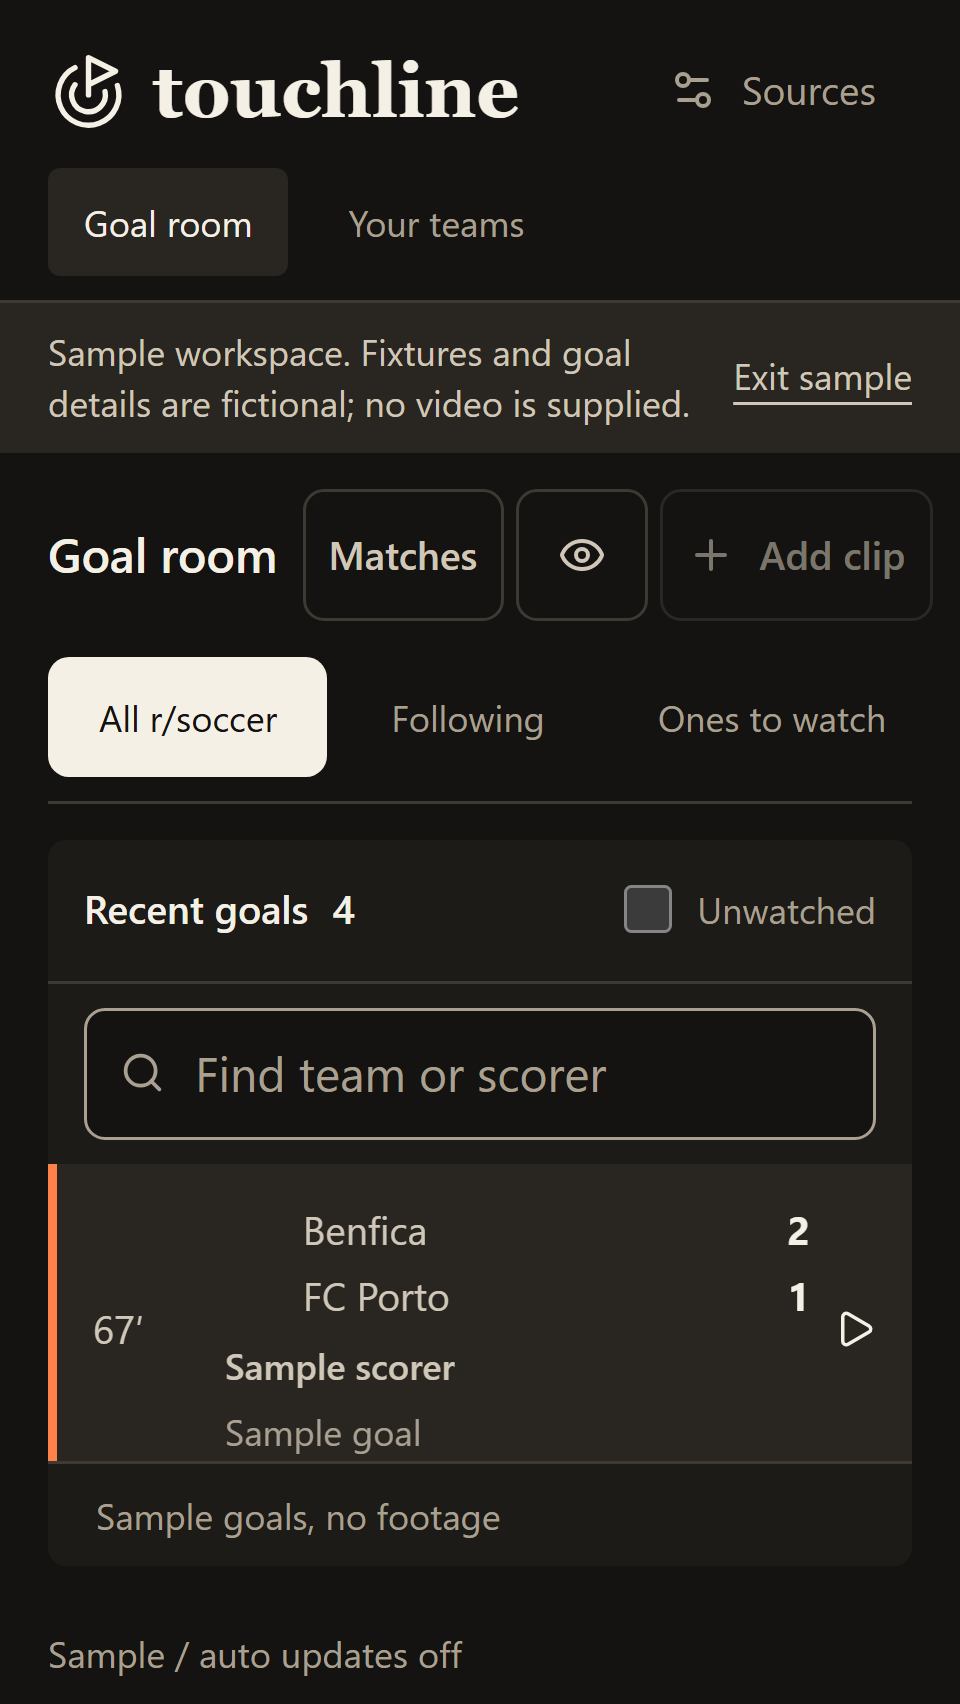
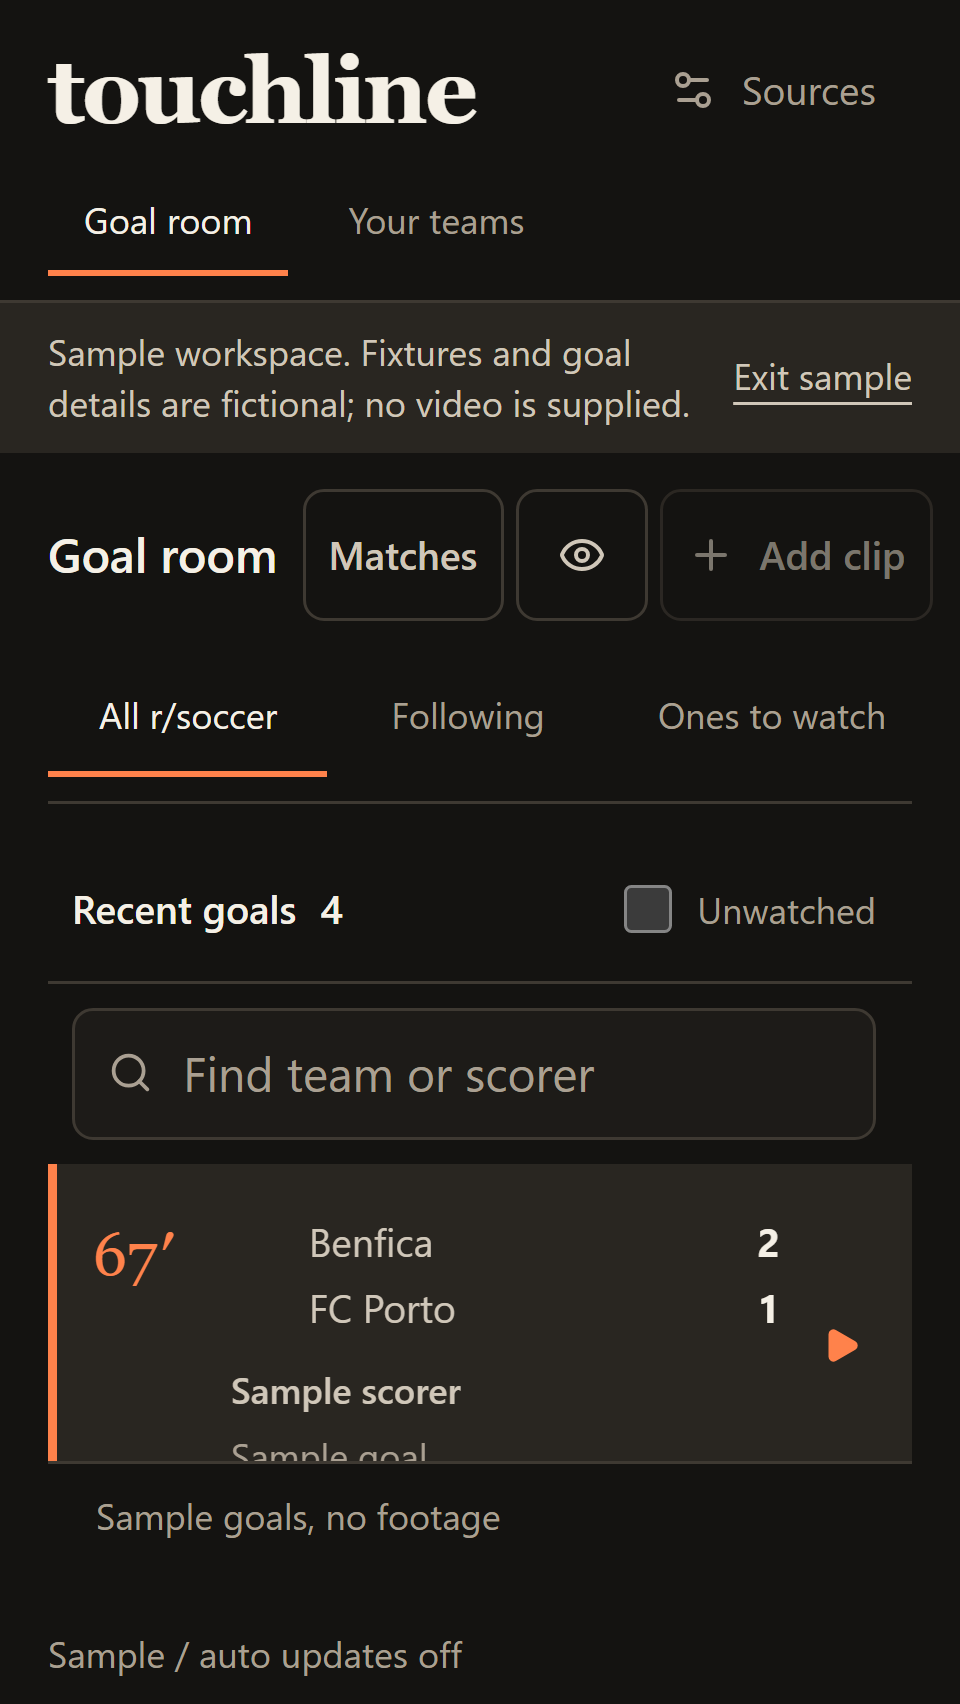
Refine Touchline score strip and football desk hierarchy

diff --git a/web/src/App.tsx b/web/src/App.tsx
@@ -1032,15 +1032,27 @@ export default function App() {
                                           hour: "2-digit",
                                           minute: "2-digit",
                                         }).format(new Date(goal.publishedAt))}
-                                    {prefs.watched.includes(goal.id)
-                                      ? " / Watched"
-                                      : ""}
+                                    {prefs.watched.includes(goal.id) && (
+                                      <span className="watched-note">
+                                        <Check size={12} aria-hidden="true" />
+                                        Watched
+                                      </span>
+                                    )}
                                     {goal.alternatives.length
                                       ? ` / ${goal.alternatives.length} alternate`
                                       : ""}
                                   </small>
                                 </span>
-                                <Play size={14} />
+                                <span className="queue-play" aria-hidden="true">
+                                  <Play
+                                    size={13}
+                                    fill={
+                                      selected?.id === goal.id
+                                        ? "currentColor"
+                                        : "none"
+                                    }
+                                  />
+                                </span>
                               </button>
                             ))
                           ) : (
@@ -1130,20 +1142,45 @@ export default function App() {
                         {selected ? (
                           <>
                             <div className="player-header">
-                              <span>
-                                <TeamCrest
-                                  team={data.teams.find(
-                                    (t) => t.id === selected.homeId,
+                              <span className="match-scoreboard">
+                                <span className="scoreboard-team home">
+                                  <TeamCrest
+                                    team={data.teams.find(
+                                      (t) => t.id === selected.homeId,
+                                    )}
+                                  />
+                                  <span title={name(selected.homeId)}>
+                                    {name(selected.homeId)}
+                                  </span>
+                                </span>
+                                <strong
+                                  className="scoreboard-result"
+                                  aria-label={
+                                    hideScore
+                                      ? "Score hidden"
+                                      : `Score at this goal: ${selected.homeScore} to ${selected.awayScore}`
+                                  }
+                                >
+                                  {hideScore ? (
+                                    <EyeOff size={18} />
+                                  ) : (
+                                    <>
+                                      {selected.homeScore}
+                                      <span>:</span>
+                                      {selected.awayScore}
+                                    </>
                                   )}
-                                />
-                                {name(selected.homeId)}{" "}
-                                <span className="muted">vs</span>{" "}
-                                {name(selected.awayId)}
-                                <TeamCrest
-                                  team={data.teams.find(
-                                    (t) => t.id === selected.awayId,
-                                  )}
-                                />
+                                </strong>
+                                <span className="scoreboard-team away">
+                                  <TeamCrest
+                                    team={data.teams.find(
+                                      (t) => t.id === selected.awayId,
+                                    )}
+                                  />
+                                  <span title={name(selected.awayId)}>
+                                    {name(selected.awayId)}
+                                  </span>
+                                </span>
                               </span>
                               <button
                                 type="button"
@@ -1276,7 +1313,7 @@ export default function App() {
                                     ? "Scores and scorers stay hidden until you reveal this goal."
                                     : selected.sample
                                       ? "Fictional goal metadata for the sample workspace."
-                                      : selected.title}
+                                      : `${selected.minute}′ / ${name(selected.homeId)} vs ${name(selected.awayId)}`}
                                 </p>
                                 {selected.watchReason && (
                                   <a
@@ -1293,10 +1330,17 @@ export default function App() {
                                     <ExternalLink size={12} />
                                   </a>
                                 )}
-                                {selected.author && (
-                                  <p>
-                                    Posted to r/soccer by u/{selected.author}
-                                  </p>
+                                {!hideScore && !selected.sample && (
+                                  <details className="post-details">
+                                    <summary>Original post</summary>
+                                    <p>{selected.title}</p>
+                                    {selected.author && (
+                                      <p>
+                                        Posted to r/soccer by u/
+                                        {selected.author}
+                                      </p>
+                                    )}
+                                  </details>
                                 )}
                               </div>
                               <div className="clip-actions">

diff --git a/web/src/style.css b/web/src/style.css
@@ -1930,3 +1930,189 @@ summary:focus-visible {
   bottom: 0;
   background: var(--color-paper);
 }
+
+/* A football desk: a quiet index, a score strip and an open viewing stage. */
+.topbar .brand {
+  font-size: 31px;
+  letter-spacing: -1px;
+}
+.topbar .brand > svg {
+  display: none;
+}
+.topbar nav button {
+  border-radius: 0;
+  border-bottom: 2px solid var(--color-clear);
+}
+.topbar nav button[aria-current="page"] {
+  background: var(--color-clear);
+  border-bottom-color: var(--color-accent);
+}
+.feed-tabs > button {
+  border-radius: 0;
+  border-bottom: 2px solid var(--color-clear);
+}
+.feed-tabs > button[aria-pressed="true"] {
+  color: var(--color-ink);
+  background: var(--color-clear);
+  border-bottom-color: var(--color-accent);
+}
+.goal-queue {
+  background: var(--color-paper);
+  border-radius: 0;
+  border-right: 1px solid var(--color-rule);
+}
+.goal-queue .section-bar {
+  padding-left: var(--space-xs);
+}
+.goal-search {
+  margin-left: var(--space-xs);
+}
+.goal-search input {
+  border-color: var(--color-rule);
+  background: var(--color-paper-2);
+}
+.goal-row {
+  padding-block: var(--space-md);
+}
+.goal-minute {
+  align-self: flex-start;
+  padding-top: var(--space-3xs);
+  font: 400 20px/1.2 var(--font-display);
+  width: 38px;
+}
+.goal-row.selected .goal-minute {
+  color: var(--color-accent);
+}
+.goal-row:not(.selected) .queue-play {
+  color: var(--color-muted);
+}
+.queue-play {
+  display: grid;
+  place-items: center;
+  width: 24px;
+  height: 24px;
+  color: var(--color-accent);
+  flex: none;
+}
+.goal-copy strong {
+  margin-top: var(--space-xs);
+}
+.goal-copy small {
+  column-gap: var(--space-xs);
+}
+.watched-note {
+  display: inline-flex;
+  align-items: center;
+  gap: var(--space-3xs);
+}
+.match-rail {
+  border-radius: 0;
+  background: var(--color-paper);
+  border-left: 1px solid var(--color-rule);
+}
+.match-rail .section-bar,
+.match-group-heading,
+.match-rail > .date-control {
+  background: var(--color-paper-2);
+  color: var(--color-ink);
+}
+.fixture-meta {
+  font-size: 11px;
+}
+.player-header {
+  min-height: 58px;
+  padding-bottom: var(--space-xs);
+  border-bottom: 1px solid var(--color-rule);
+}
+.player-header > .match-scoreboard:first-child {
+  display: grid;
+  grid-template-columns: minmax(0, 1fr) auto minmax(0, 1fr);
+  gap: var(--space-md);
+}
+.scoreboard-team {
+  display: flex;
+  align-items: center;
+  min-width: 0;
+  gap: var(--space-xs);
+}
+.scoreboard-team.home {
+  justify-content: flex-end;
+}
+.scoreboard-team.home > .team-crest {
+  order: 1;
+}
+.scoreboard-team > span:last-child {
+  overflow: hidden;
+  text-overflow: ellipsis;
+  white-space: nowrap;
+}
+.scoreboard-result {
+  display: inline-flex;
+  align-items: center;
+  gap: var(--space-xs);
+  font-size: 25px;
+  font-weight: 500;
+  line-height: 1;
+  font-variant-numeric: tabular-nums;
+}
+.scoreboard-result > span {
+  color: var(--color-muted);
+  font-weight: 400;
+}
+.clip-details h2 {
+  font: 400 clamp(24px, 2.1vw, 32px)/1.15 var(--font-display);
+  text-wrap: initial;
+}
+.clip-details p {
+  margin-top: var(--space-xs);
+}
+.post-details {
+  margin-top: var(--space-xs);
+  color: var(--color-muted);
+  font-size: var(--text-xs);
+}
+.post-details summary {
+  cursor: pointer;
+  min-height: 32px;
+  display: flex;
+  align-items: center;
+  gap: var(--space-xs);
+}
+.post-details summary::before {
+  content: "+";
+}
+.post-details[open] summary::before {
+  content: "−";
+}
+.post-details p {
+  font-size: var(--text-xs);
+}
+.watch-reason {
+  margin-top: var(--space-xs);
+}
+@media (max-width: 760px) {
+  .goal-queue {
+    border-right: 0;
+  }
+  .player-header {
+    flex-wrap: wrap;
+    gap: var(--space-2xs);
+    min-height: 58px;
+  }
+  .player-header > .match-scoreboard:first-child {
+    flex: 1 1 100%;
+    gap: var(--space-xs);
+  }
+  .player-header .icon-button {
+    min-height: 32px;
+  }
+  .scoreboard-team {
+    font-size: var(--text-xs);
+  }
+  .scoreboard-result {
+    font-size: 23px;
+  }
+  .clip-details h2 {
+    font-size: 28px;
+  }
+}
